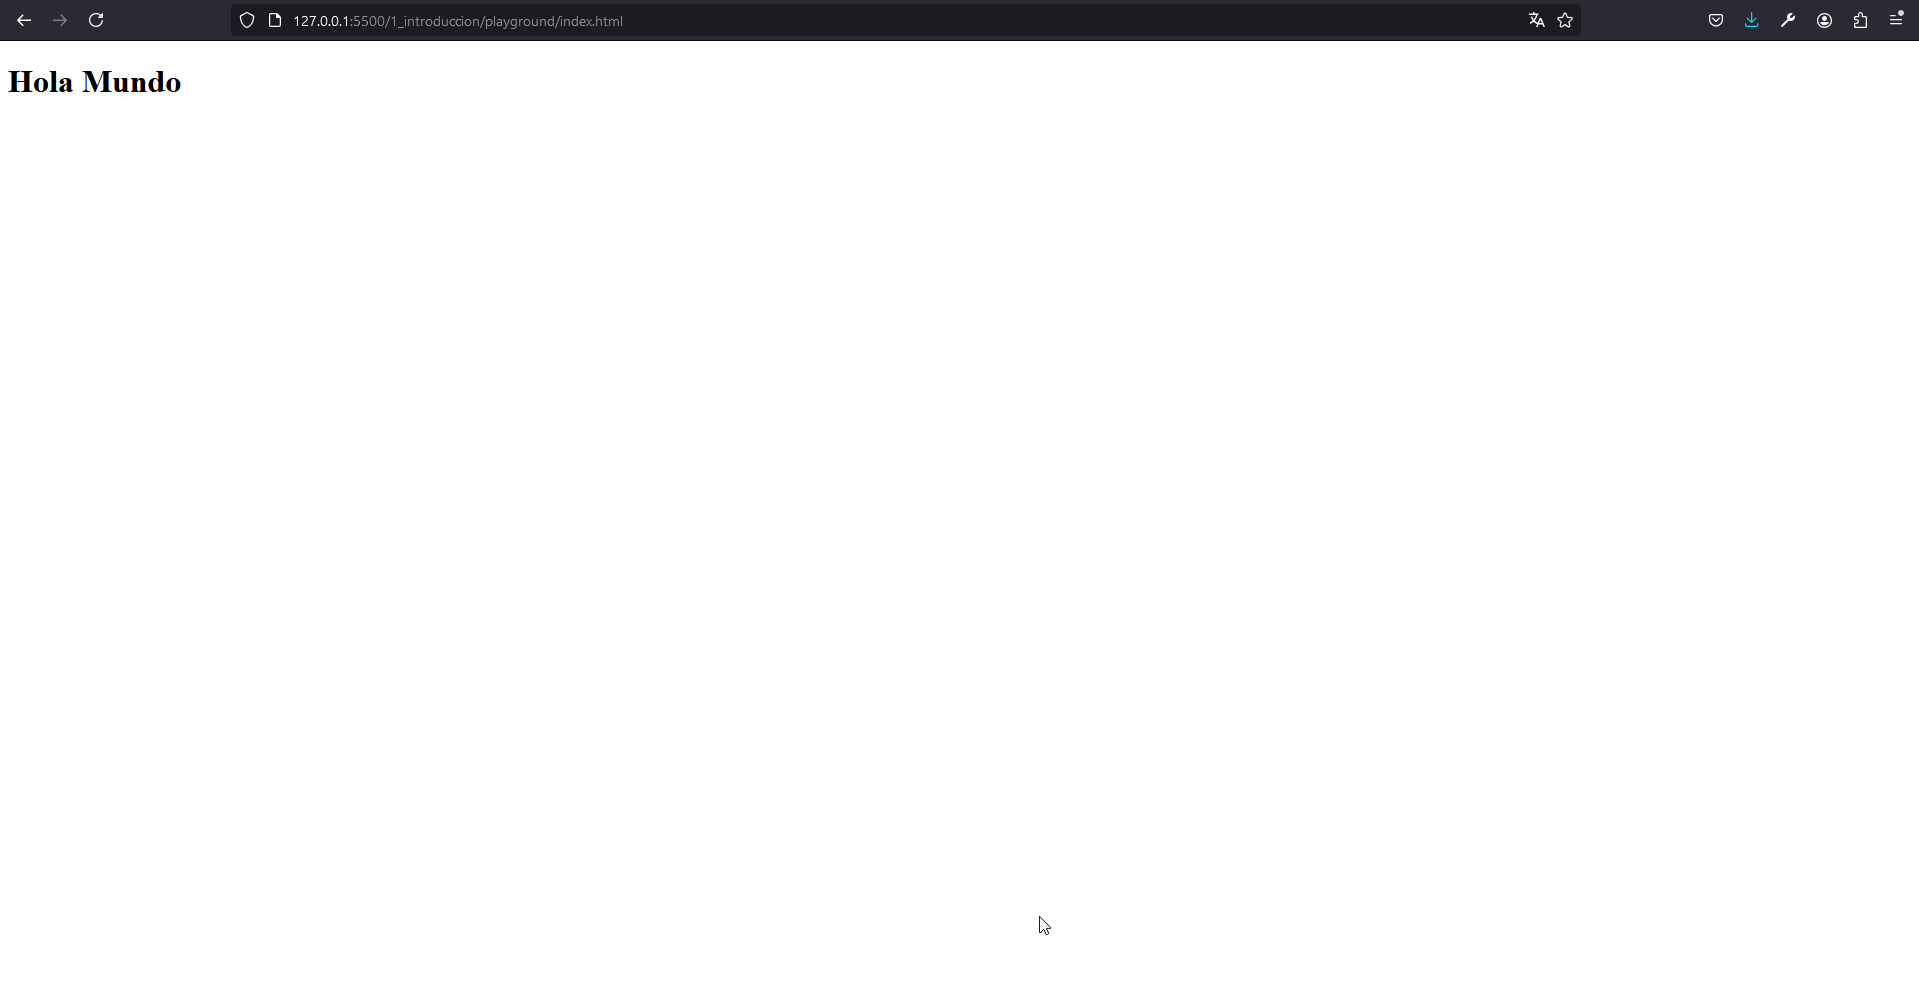
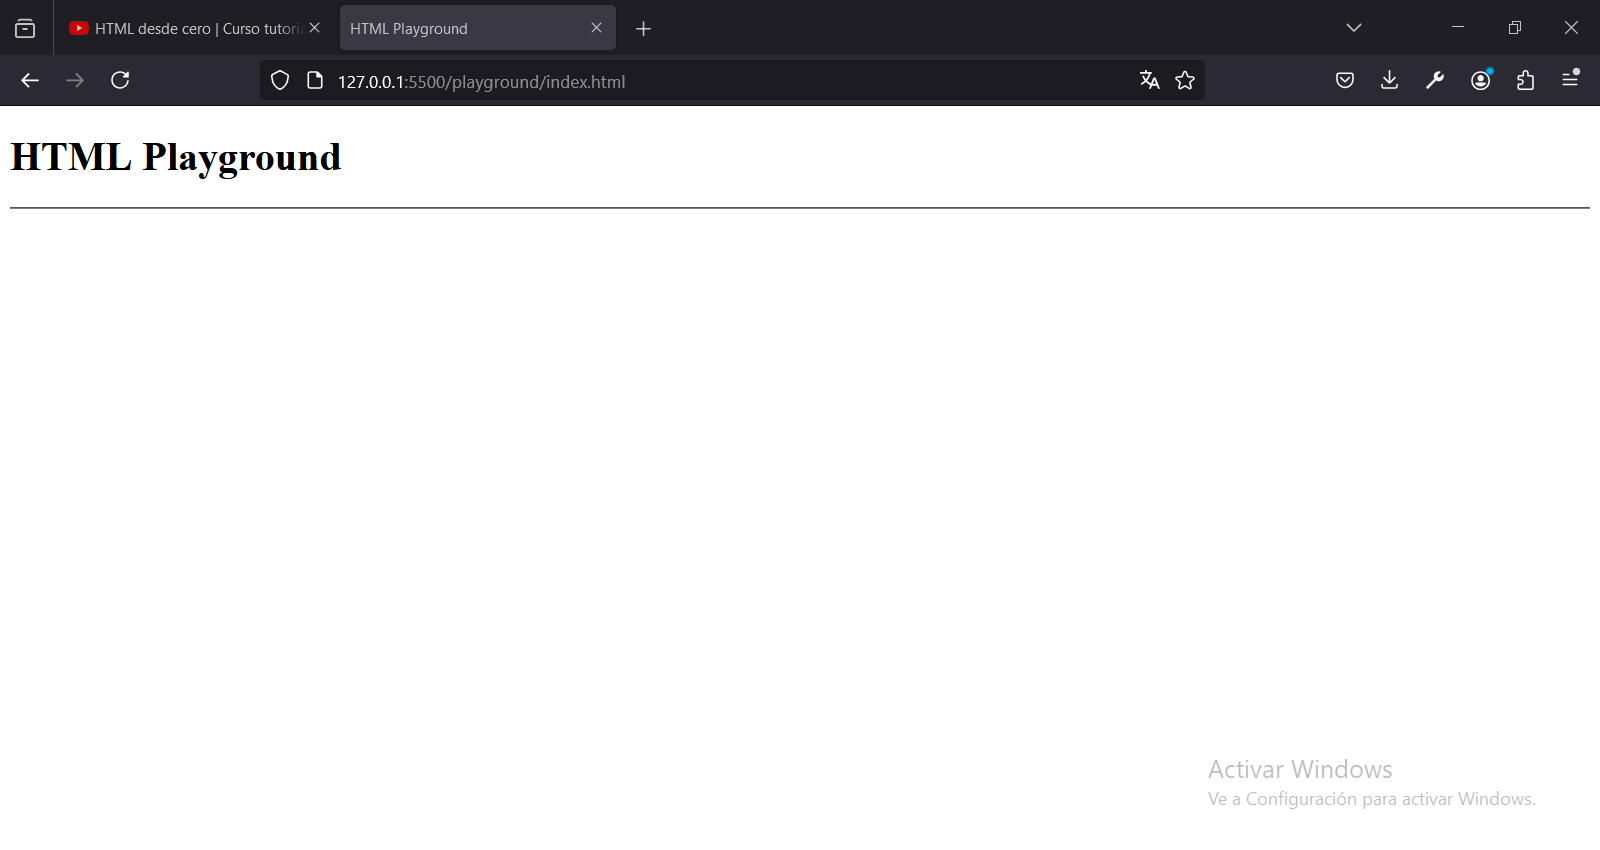
Corregido hasta Body

Changed region(s): [[0.0, 0.0, 1.0, 0.1224], [0.0, 0.1529, 0.2188, 0.2141], [0.75, 0.8871, 0.9375, 0.9482]]

diff --git a/playground/index.html b/playground/index.html
@@ -1,11 +1,69 @@
 <!DOCTYPE html>
 <html lang="en">
-<head>
-    <meta charset="UTF-8">
-    <meta name="viewport" content="width=device-width, initial-scale=1.0">
-    <title>Document</title>
-</head>
-<body>
-    
-</body>
+  <head>
+    <meta charset="UTF-8" />
+    <meta name="viewport" content="width=device-width, initial-scale=1.0" />
+    <title>HTML Playground</title>
+    <meta name="author" content="Ing. Andrés Chaparro" />
+    <meta name="description" content="Este es mi playground para HTML" />
+    <meta name="keywords" content="curso, playground, html" />
+    <link rel="stylesheet" href="style.css" />
+    <link rel="shortcut icon" href="favicon.ico" type="image/x-icon" />
+  </head>
+  <body>
+    <h1>HTML Playground</h1>
+    <hr />
+
+    <!-- Estructura semántica básica de una pagina web -->
+    <!-- <header>![Estructura Semántica Básica](estructura_semantica_basica.png)
+      <h1>Título</h1>
+    </header>
+
+    <nav>
+      <ul>
+        <li><a href="#">Link</a></li>
+        <li><a href="#">Link</a></li>
+        <li><a href="#">Link</a></li>
+        <li><a href="#">Link</a></li>
+      </ul>
+    </nav>
+
+    <main>
+      <article>
+        <h2>Título del artículo 1</h2>
+        <p>
+          Lorem ipsum dolor sit amet, consectetur adipisicing elit. Quis autem
+          voluptates facilis ullam nostrum? Necessitatibus nulla, itaque eos,
+          provident quae soluta minima non dolor incidunt earum et facilis
+          blanditiis repudiandae.
+        </p>
+      </article>
+
+      <article>
+        <h2>Título del artículo 2</h2>
+        <p>
+          Lorem ipsum dolor sit amet, consectetur adipisicing elit. Quis autem
+          voluptates facilis ullam nostrum? Necessitatibus nulla, itaque eos,
+          provident quae soluta minima non dolor incidunt earum et facilis
+          blanditiis repudiandae.
+        </p>
+      </article>
+
+      <aside>
+        <h2>Relacionado</h2>
+        <ul>
+          <li><a href="#">...</a></li>
+          <li><a href="#">...</a></li>
+          <li><a href="#">...</a></li>
+          <li><a href="#">...</a></li>
+        </ul>
+      </aside>
+    </main>
+
+    <footer>
+      <p>Derechos reservados © 2024</p>
+    </footer> -->
+
+    <script src="index.js"></script>
+  </body>
 </html>

diff --git a/2_head/README.md b/2_head/README.md
@@ -2,36 +2,49 @@
 
 ## Metadatos
 
-El metadato `charset`, se utiliza para indicar el juego de caracteres que tendra la pagina web.
+### Metadatos creados por defecto
 
-El resto de los metadatos, tienen el siguiente formato: ```<meta name="nombre" content="valor" http-equiv="cabecera-http" schema="esquema">```.
+- `charset`: indica el juego de caracteres que tendrá la pagina web.
 
-Por ejemplo, el siguiente metadato se utiliza para darle responsividad a la pagina web:
+- `viewport`: se usa para indicar el tamaño inicial de los elementos cuando nuestra pagina va a utilizarse en dispositivos móviles.
 
-```
-<meta name="viewport" content="width=device-width, initial-scale=1.0">
-```
+### Crear un metadato para indicar el autor
 
-La responsividad, implica que la pagina web se vea de forma correcta tanto en una PC como en un dispositivo movil.
-
-1. Agregar ```<meta name="author" content="valor">```.
+1. Agregar `<meta name="author" content="valor" />`.
 2. Reemplazar `valor` con nuestro nombre.
-3. Agregar ```<meta name="description" content="Este es mi Playground para HTML">```.
 
-El metadato ```<meta name="keywords" content="curso,html">``` lo utilizan los buscadores para poder encontrar nuestra pagina web. El `content`, se compone de varias palabras separadas por coma.
+### Crear un metadato para indicar una descripción
 
-## link
+1. Agregar `<meta name="description" content="texto" />`.
+2. Reemplazar `valor` con nuestra descripción.
 
-Se utiliza para agregar hojas de estilos CSS.
+### Crear un metadato para agregar palabras clave
 
-1. Agregar ```<link rel="stylesheet" href="style.css">```.
-2. Crear un archivo llamado `style.css` dentro de la carpeta `playground`.
+1. Agregar `<meta name="keywords" content="palabras" />`.
+2. Reemplazar `palabras` por nuestras palabras clave separadas por `,`.
 
-## favicon
+Las palabras clave las utilizan los robots de búsqueda para poder encontrar nuestra pagina web.
 
-Es el icono  que va a mostrar el navegador en la pestaña donde tengamos abierta nuestra pagina web.
+## Crear un elemento link para agregar una hojas de estilo CSS
+
+1. Crear un archivo llamado `style.css` dentro de la carpeta `playground`.
+2. Agregar `<link rel="stylesheet" href="style.css" />`.
+
+## Usar el inspector del navegador para depurar el código HTML
+
+1. Presionar `CTRL+SHIFT+I` cuando estamos viendo la pagina web.
+
+![Error Favicon](error_favicon.png)
+
+Aparece un error porque nuestra pagina web no tiene un favicon.
+
+## Crear un elemento link para agregar el favicon
 
 1. Descargar un icono de HTML de [ICONS8](https://icons8.com/).
-2. Guardarlo dentro de la carpeta `playground`.
-3. Renombrar el archivo del icono a `favicon.ico`.
-4. Agregar ```<link rel="shortcut icon" href="favicon.ico" type="image/x-icon">```.
+2. Renombrar el archivo como `favicon.ico`.
+3. Pegarlo dentro de la carpeta `playground`.
+4. Agregar `<link rel="shortcut icon" href="favicon.ico" type="image/x-icon" />`.
+
+El favicon es el icono que va a mostrar el navegador en la pestaña donde tengamos abierta nuestra pagina web.
+
+![Favicon Solucionado](favicon_solucionado.png)

diff --git a/1_introduccion/README.md b/1_introduccion/README.md
@@ -2,7 +2,7 @@
 
 ## El archivo index.html
 
-El archivo `index.html` es el punto de entrada a una pagina web. En el mismo, se ingresa código HTML para describir la estructura de la pagina.
+El archivo `index.html` es el punto de entrada a la pagina web. En el mismo, se ingresa el código HTML que va a describir la estructura de la misma.
 
 1. Crear una carpeta llamada `playground`.
 2. Crear un archivo llamado `index.html` dentro de la carpeta `playground`.
@@ -14,39 +14,34 @@ El código HTML esta formado por elementos que pueden contener:
 - Otros elementos, es decir, se permite el anidamiento de los mismos.
 - Texto.
 
-El siguiente elemento, que contiene texto, se muestra con el fin de identificar su estructura semántica:
+A continuación, se muestra un elemento que contiene texto:
 
 `<h1 class="titulo">Titulo</h1>`.
 
-Donde vemos que tiene:
+El mismo esta compuesto por:
 
 - Una etiqueta de apertura `<h1>`.
-- Un atributo con un valor `class="titulo"`.
-- El texto `Titulo`.
+- Un atributo `class="titulo"`.
+- Un texto `Titulo`.
 - Una etiqueta de cierre `</h1>`.
 
-## Estructura estándar por elementos anidados
-
-El elemento `<html></html>`, es el elemento raíz de la pagina web.
-
-Donde vemos que tiene:
+## Crear la estructura básica de elementos anidados
 
 1. Ingresar `html` dentro del archivo `index.html`.
 2. Seleccionar `html:5`.
 
-### Titulo de la pagina web
+El elemento `<html></html>`, es el elemento raíz de la pagina web.
 
-Dentro del elemento `<head></head>`, va la informacion de la pagina web.
-
-El elemento `<title></title>`, es parte de la informacion de la pagina web.
+### Título de la pagina web
 
 1. Ingresar `HTML Playground` como el texto del elemento `<title></title>`.
 
 ### Contenido de la pagina web
 
-Dentro del elemento `<body></body>`, va el contenido de la pagina web.
+Dentro del elemento `<body></body>`:
 
-1. Ingresar `<h1>Hola Mundo</h1>` dentro del elemento `<body></body>`.
+1. Ingresar `<h1>HTML Playground</h1>`.
+2. Ingresar `<hr />`.s
 
 ## Usar el Live Server
 

diff --git a/3_body/README.md b/3_body/README.md
@@ -1,16 +1,49 @@
 # Capitulo 3: Body
 
-## Javascript
+## Crear un elemento script para agregar código JAVASCRIPT
 
-Se utiliza para agregar un archivo Javascript.
+1. Crear un archivo llamado `index.js` dentro de la carpeta `playground`.
+2. Agregar `<script src="index.js"></script>` al final del elemento `<body></body>`.
 
-1. Agregar ```<script src="index.js"></script>``` al final del elemento ```<body></body>```.
-2. Crear un archivo llamado `index.js` dentro de la carpeta `playground`.
+## Comentarios
 
-## Estructura basica de la pagina web
+### Documentar el código
 
-La plataforma [miro.com](https://miro.com/app/dashboard/) se utiliza para hacer esquemas de como queremos que quede nuestra estructura HTML.
+1. Presionar `CTRL+K+C` en una linea en blanco.
+2. Ingresar un texto que dentro de `<!--  -->`.
 
-![miro](miro.png)
+```
+    <h1>HTML Playground</h1>
+    <hr />
+    <!-- Estructura semántica básica de una pagina web -->
+```
 
-Siempre utilizar los elementos adecuados para estructurar nuestra pagina web. No utilizar solo el elemento ```<div></div>```. Esto, nos permite mejorar el posicionamiento de nuestra pagina web en los buscadores.
+### Ignorar parte del código
+
+1. Seleccionar la parte del código que no queremos que se ejecute.
+2. Presionar `CTRL+K+C`.
+
+```
+    <!-- <h1>HTML Playground</h1>
+    <hr /> -->
+```
+
+![Comentar Código](comentar_codigo.png)
+
+### Dejar de ignorar parte del código
+
+1. Seleccionar la parte del código que queremos que vuelva a ejecutarse.
+2. Presionar `CTRL+K+U`.
+
+```
+    <h1>HTML Playground</h1>
+    <hr />
+```
+
+## Estructura semántica básica de la pagina web
+
+![Estructura Semántica Básica](estructura_semantica_basica.png)
+
+![Estructura Semántica Básica en el Navegador](estructura_semantica_basica_en_el_navegador.png)
+
+Cuando modifiquemos esta estructura semántica básica, podremos verificarla con la herramienta [Markup Validation Service](https://validator.w3.org/)
